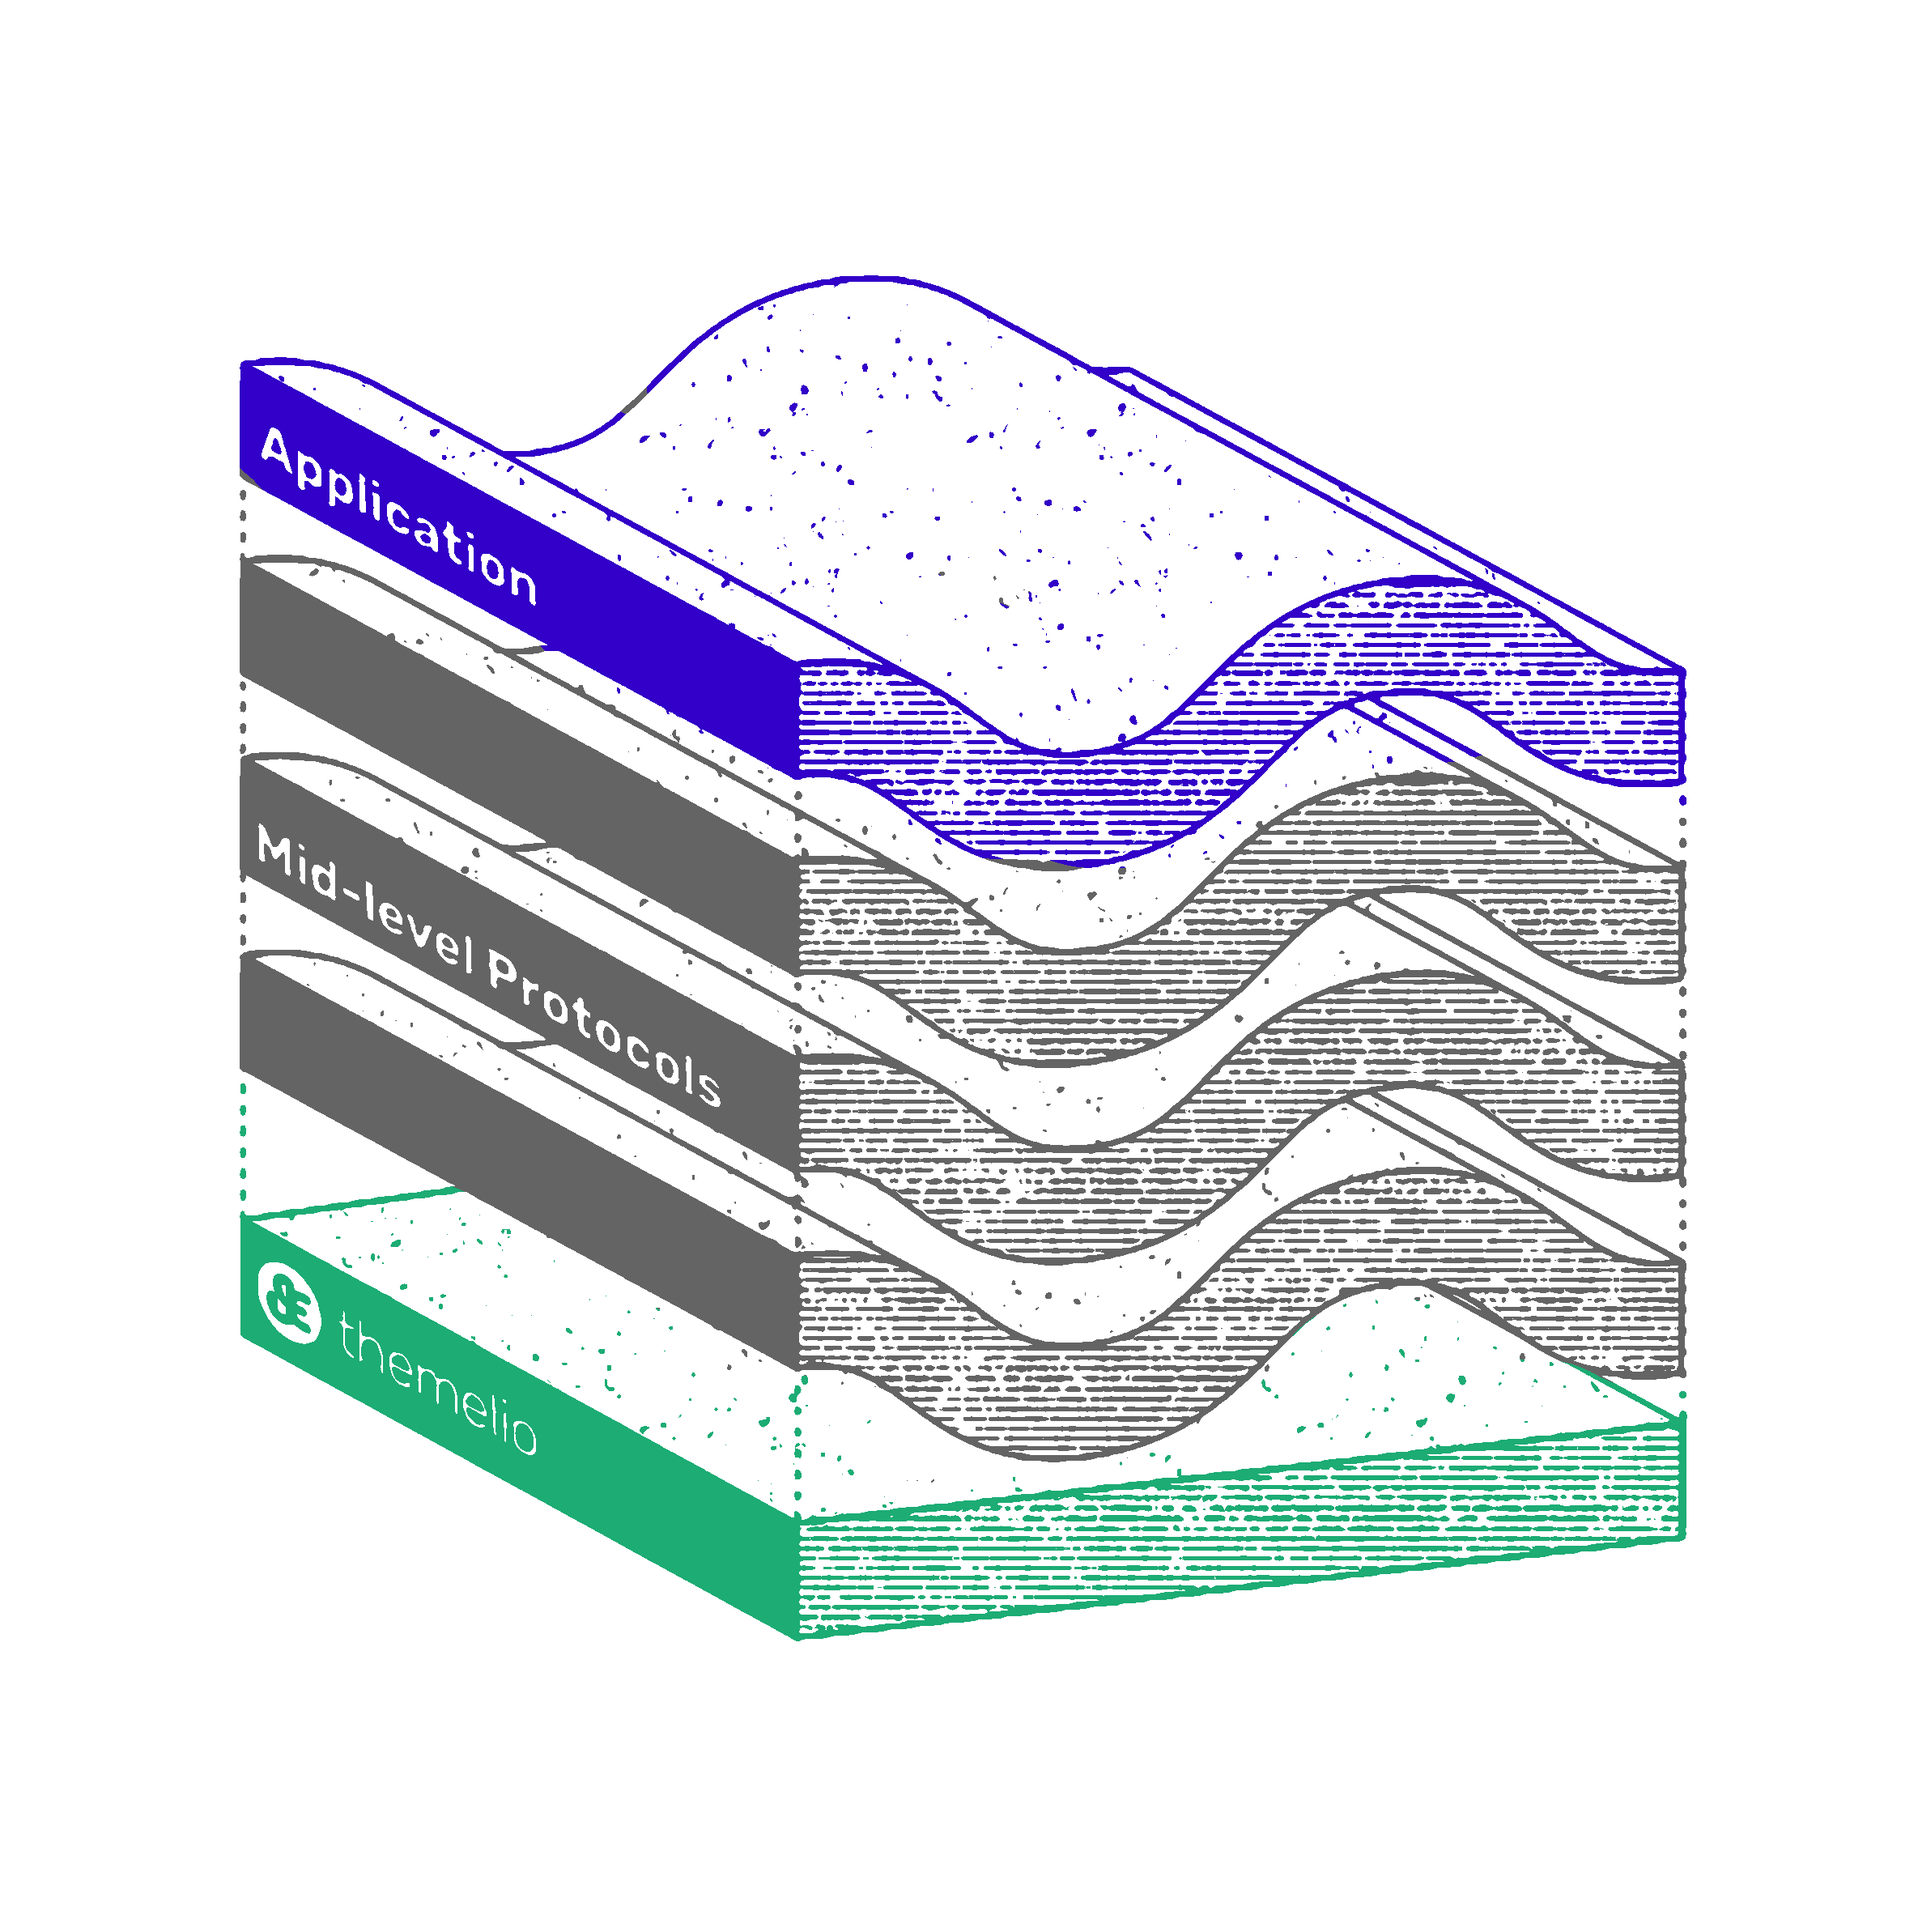
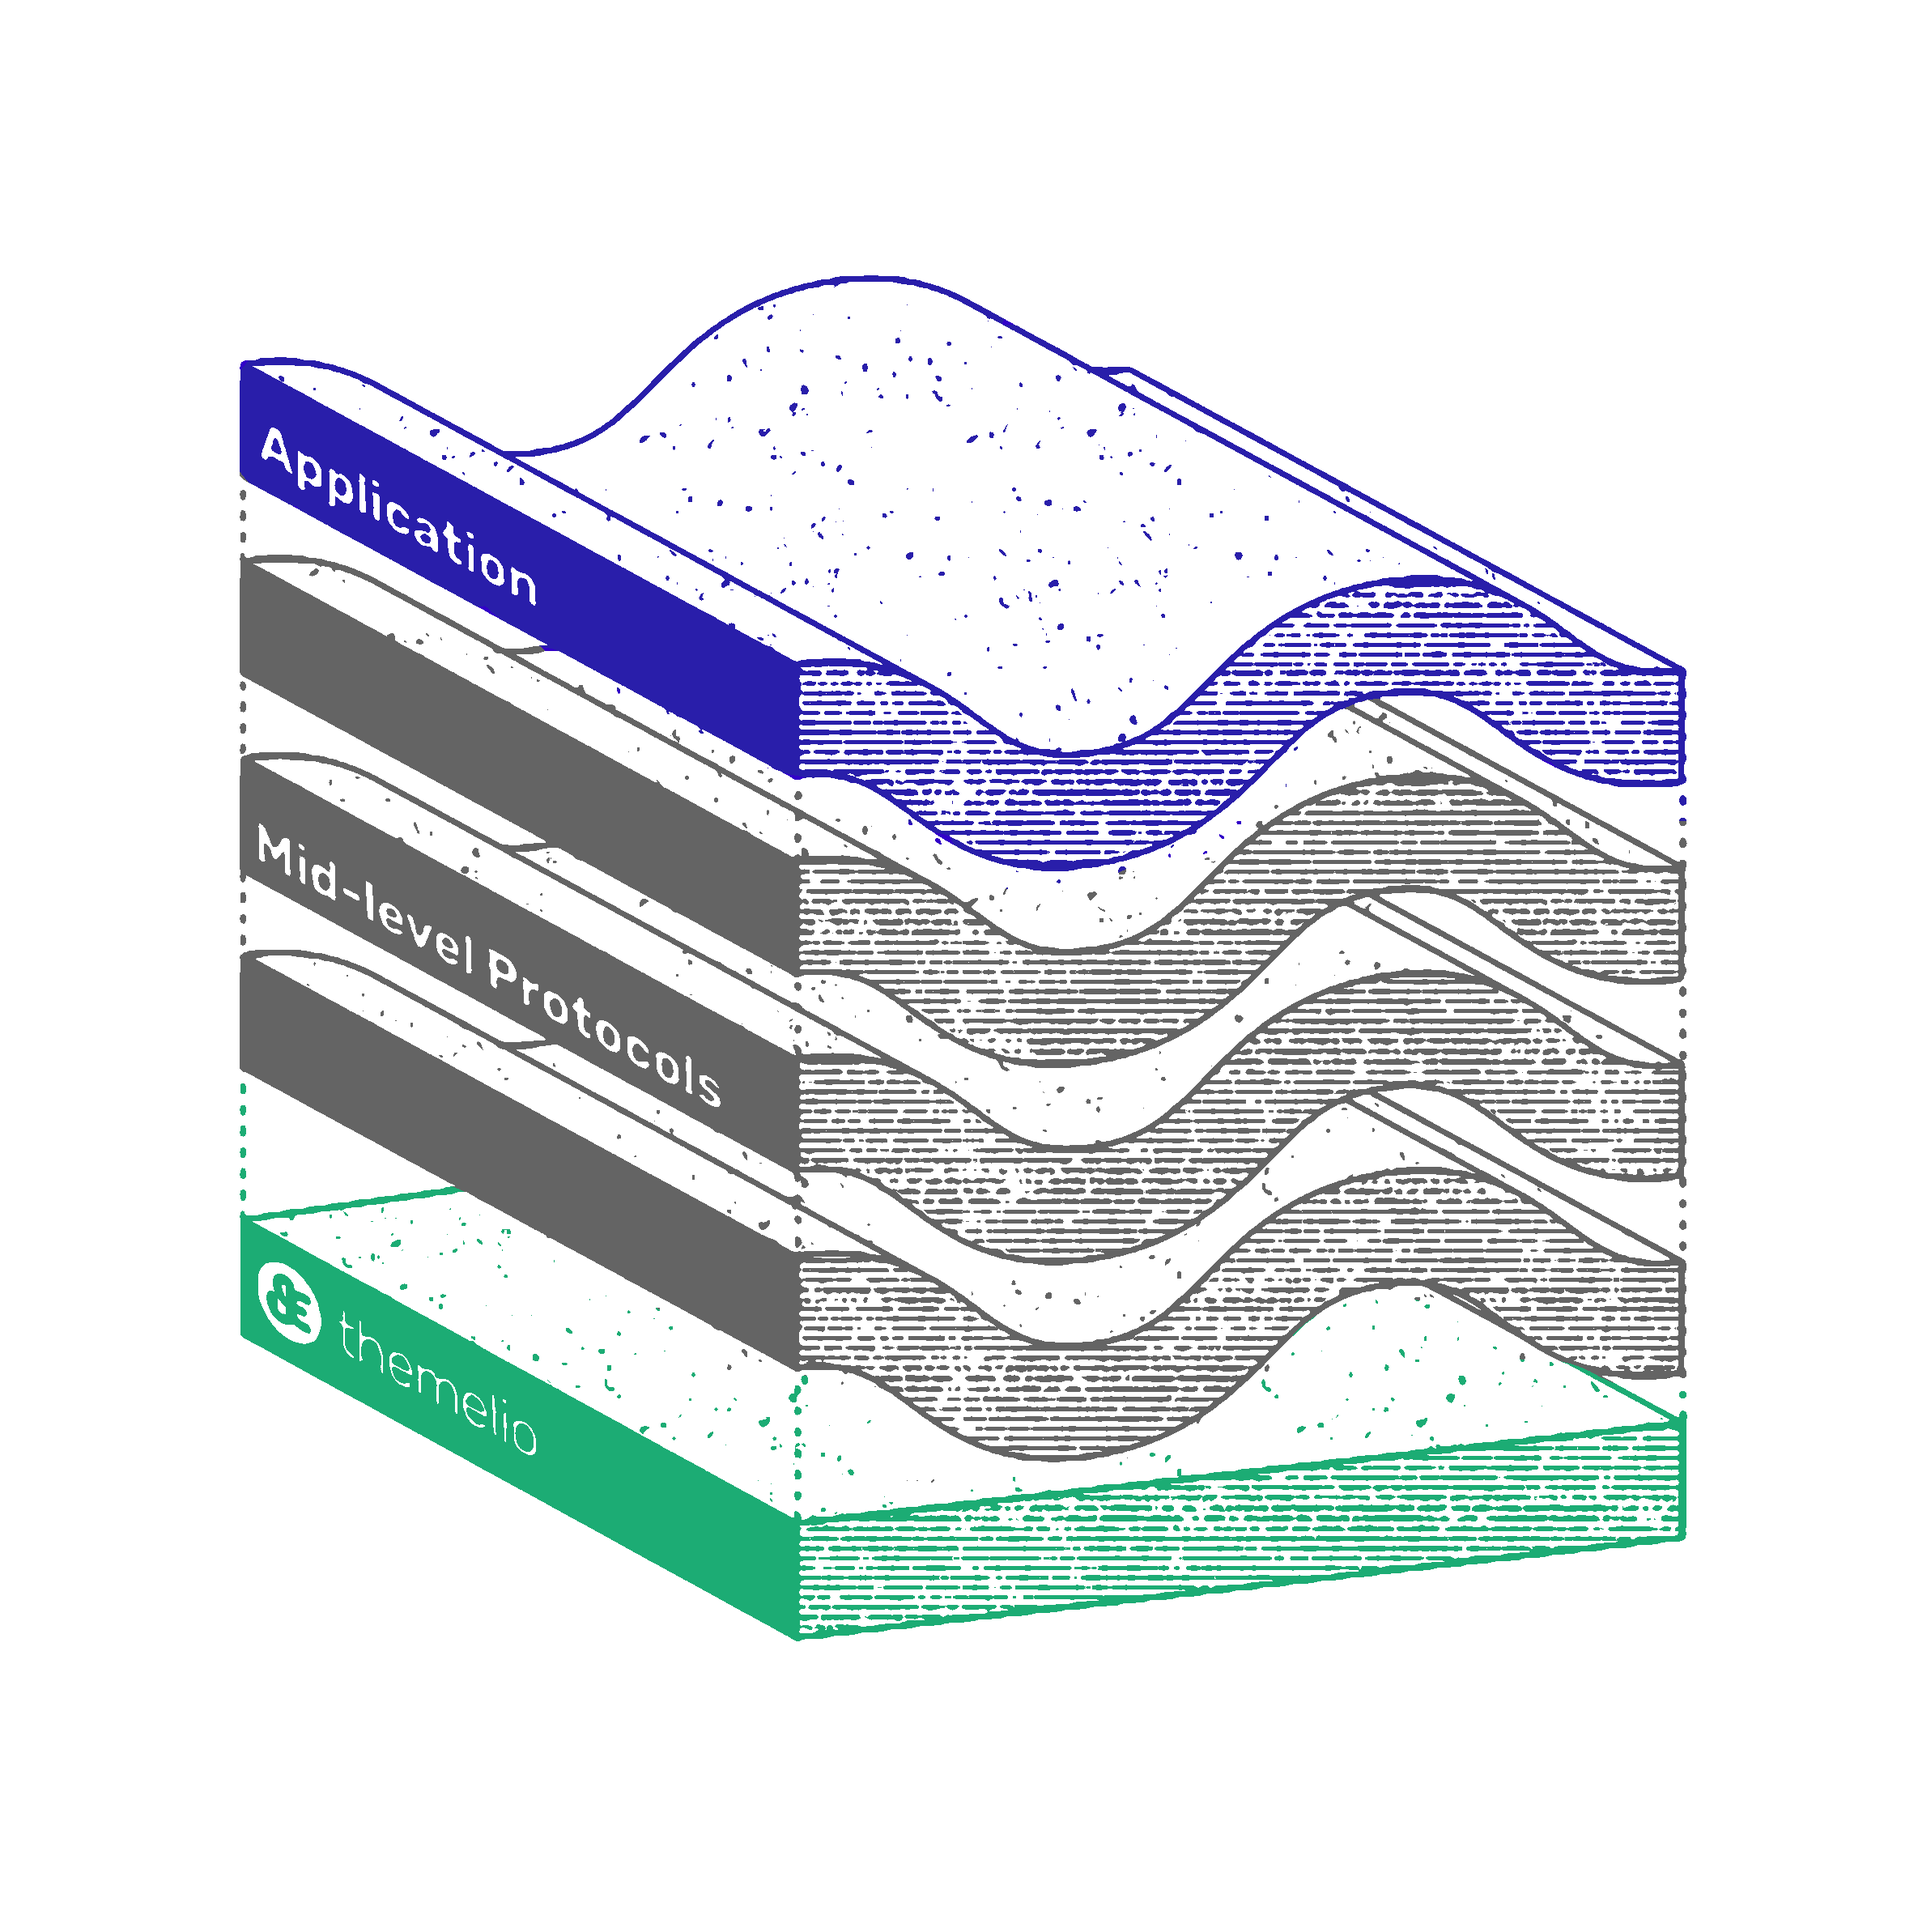
removed electrifying colors

diff --git a/src/routes/[lang]/tech.svelte b/src/routes/[lang]/tech.svelte
@@ -19,10 +19,10 @@ MainLayout(title="Technology" currentPath="tech")
             p.text--lead {@html l10n("overview/hero")}
         .row
           .col-lg-1
-          .col-lg.round-card.arch-description.m-lg-3.p-5
+          .col-lg.round-card.arch-description.m-lg-4.p-5
             img.img-fluid(src='/images/tech/badstack.png', style='mix-blend-mode: darken')
             div {@html l10n("overview/traditional-blockchains")}
-          .col-lg.round-card.arch-description.m-lg-3.p-5
+          .col-lg.round-card.arch-description.m-lg-4.p-5
             img.img-fluid(src='/images/tech/goodstack.png', style='mix-blend-mode: darken')
             div {@html l10n("overview/themelio-decoupled")}
           .col-lg-1
@@ -41,22 +41,23 @@ MainLayout(title="Technology" currentPath="tech")
       .section__inner.container
         .row
           .col-lg-6
-            .smacard
+            .smacard.m-lg-3.my-lg-4.p-3.p-lg-5
               .smicon 
                 img.img-fluid(src="/images/tech/keyhole.png")
               div {@html l10n("overview/robust-endogenous-trust")}
           .col-lg-6
-            .smacard
+            .smacard.m-lg-3.my-lg-4.p-3.p-lg-5
               .smicon 
                 img.img-fluid(src="/images/tech/utxo.png") 
               div {@html l10n("overview/smart-coins")}
+        .row
           .col-lg-6
-            .smacard
+            .smacard.m-lg-3.my-lg-4.p-3.p-lg-5
               .smicon 
                 img.img-fluid(src="/images/tech/consensus.png")
               div {@html l10n("overview/collusion-resistant")}
           .col-lg-6
-            .smacard
+            .smacard.m-lg-3.my-lg-4.p-3.p-lg-5
               .smicon 
                 img.img-fluid(src="/images/tech/mel.png")
               div {@html l10n("overview/non-fiat-stablecoin")}
@@ -74,9 +75,8 @@ MainLayout(title="Technology" currentPath="tech")
     background-color: white;
     border-radius: 0.3rem;
     border: 1px solid var(--primary-color);
-    margin: 1rem;
-    padding: 2rem;
-    min-height: 30rem;
+
+    min-height: 32rem;
 
     display: flex;
     flex-direction: row;

diff --git a/src/routes/[lang]/index.svelte b/src/routes/[lang]/index.svelte
@@ -22,7 +22,7 @@ MainLayout(title!='{l10n("nav/home")}')
       .row
         .col
           //- h1 {@html l10n("tagline")}
-          h1 The first #[br] #[i.text-secondary #[BlinkingTexts(labels!='{["self-securing", "governance-free", "anti-collusion", "truly trustless"]}')]] #[br] blockchain network
+          h1 The first #[br] #[i.text-primary #[BlinkingTexts(labels!='{["self-securing", "governance-free", "anti-collusion", "truly trustless"]}')]] #[br] blockchain network
           p.text--blead Themelio is an #[b immutable root of trust] built to realize the blockchain revolution we all wanted: a world secured by robust mechanisms and decentralized incentives, not untrustworthy and centralized third parties.
       .row
         .col 

diff --git a/src/variables.scss b/src/variables.scss
@@ -3,7 +3,7 @@
 $primary: #1AA16C;
 $primary-light: mix($primary, white, 9%);
 $primary-dark: mix($primary, black, 66%);
-$secondary: #4000ff;
+$secondary: #3225D1;
 // $body-bg: #f8fbfa;
 $body-bg: mix($primary, white, 2%);
 $font-family-sans-serif: "Iosevka Aile Web", sans-serif;
